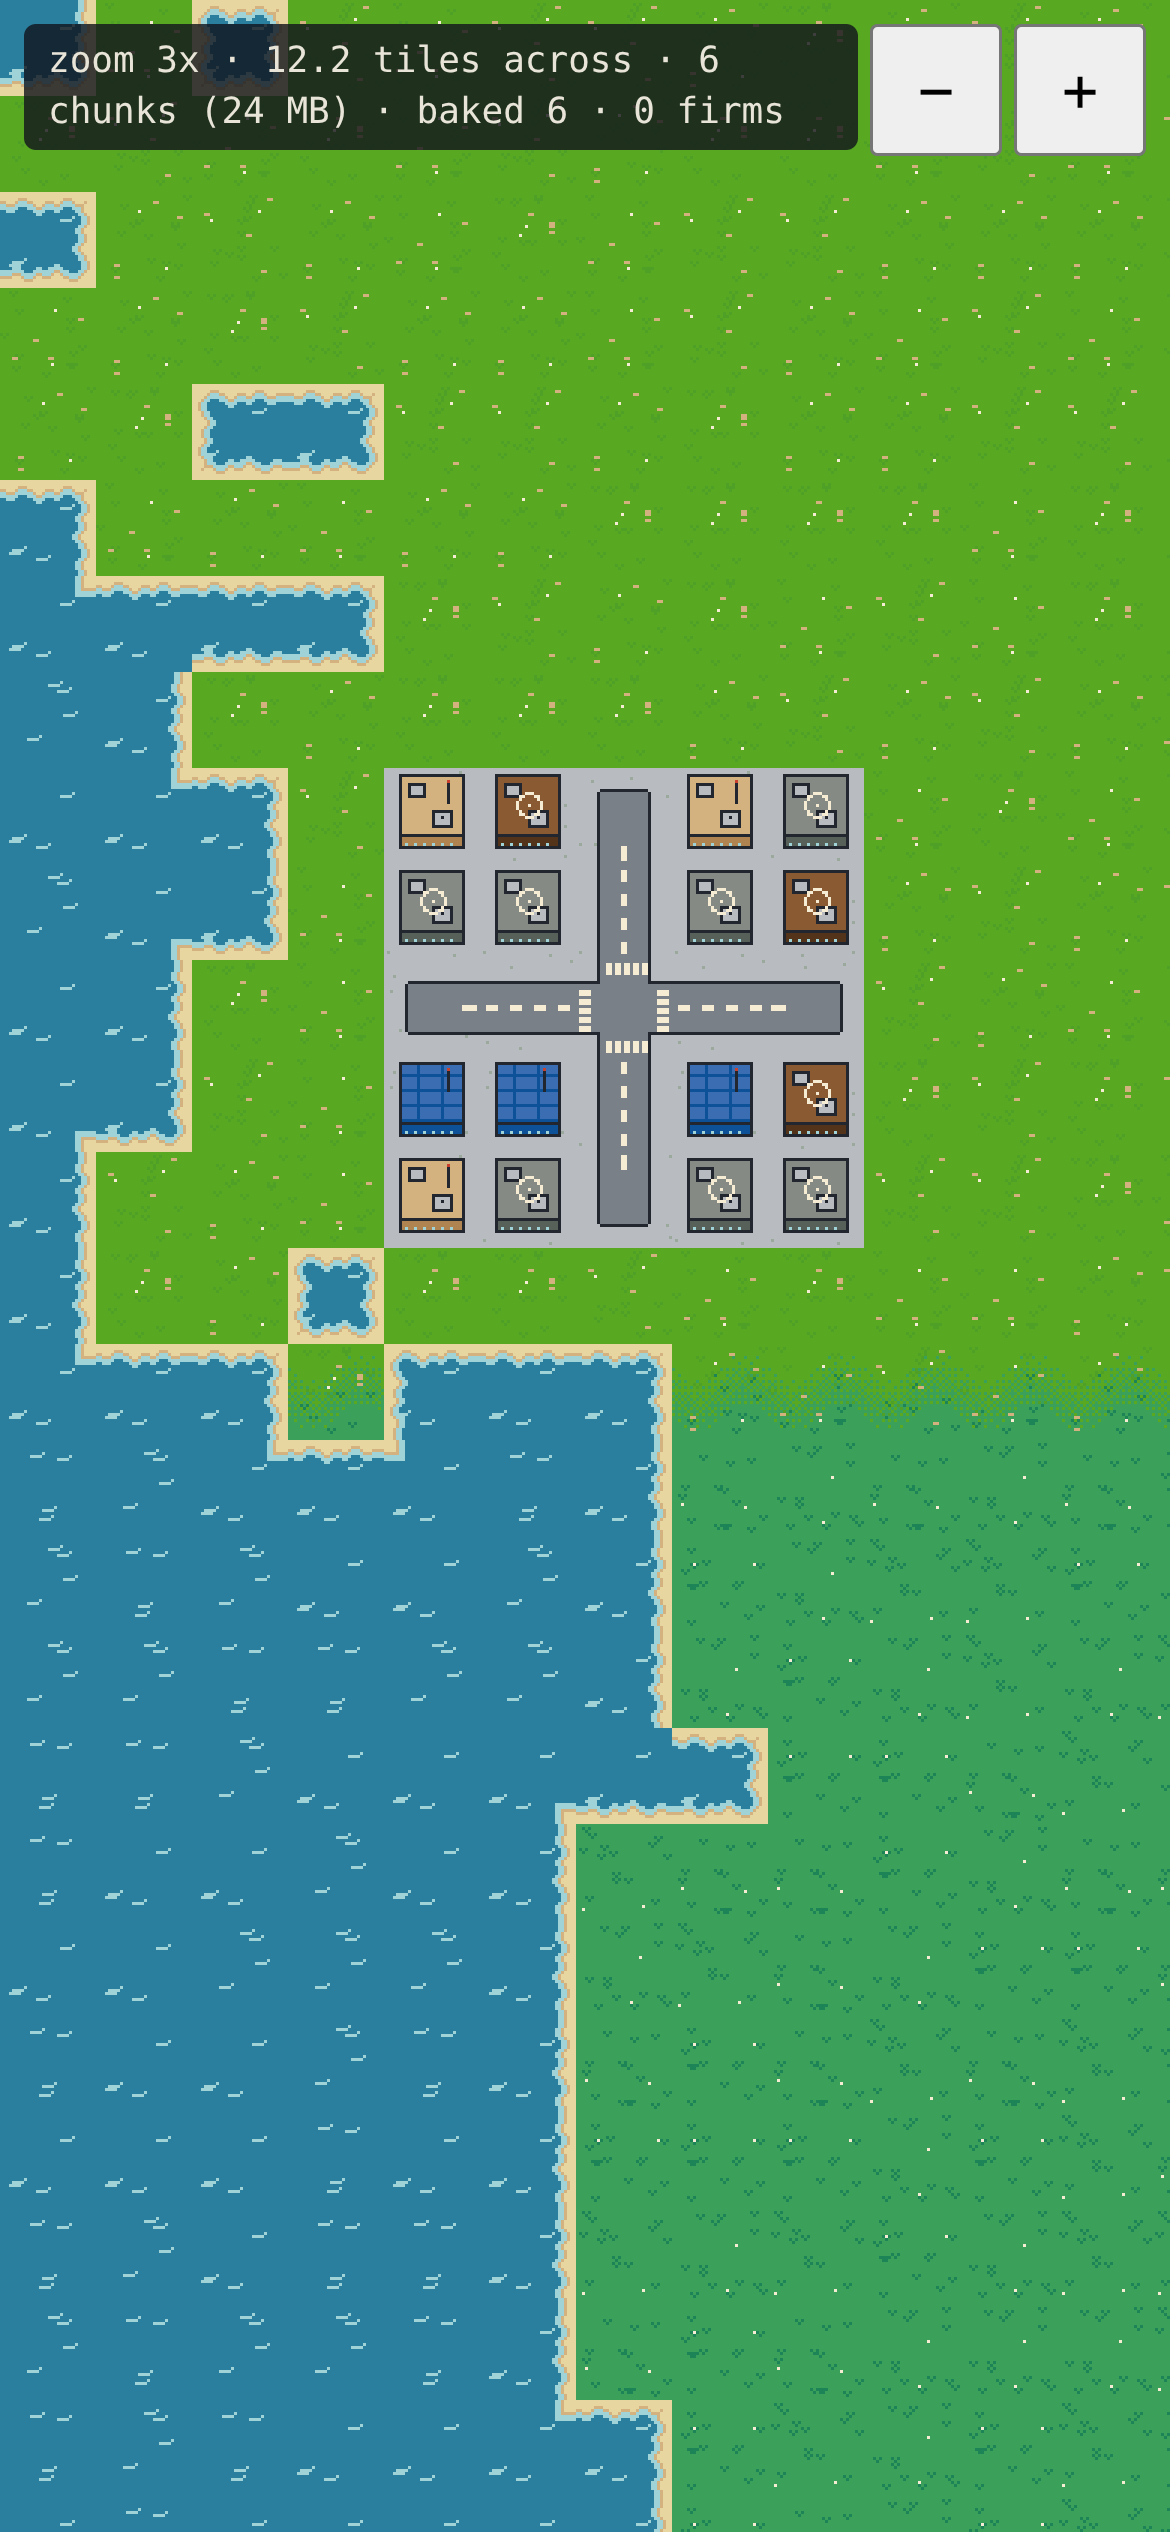
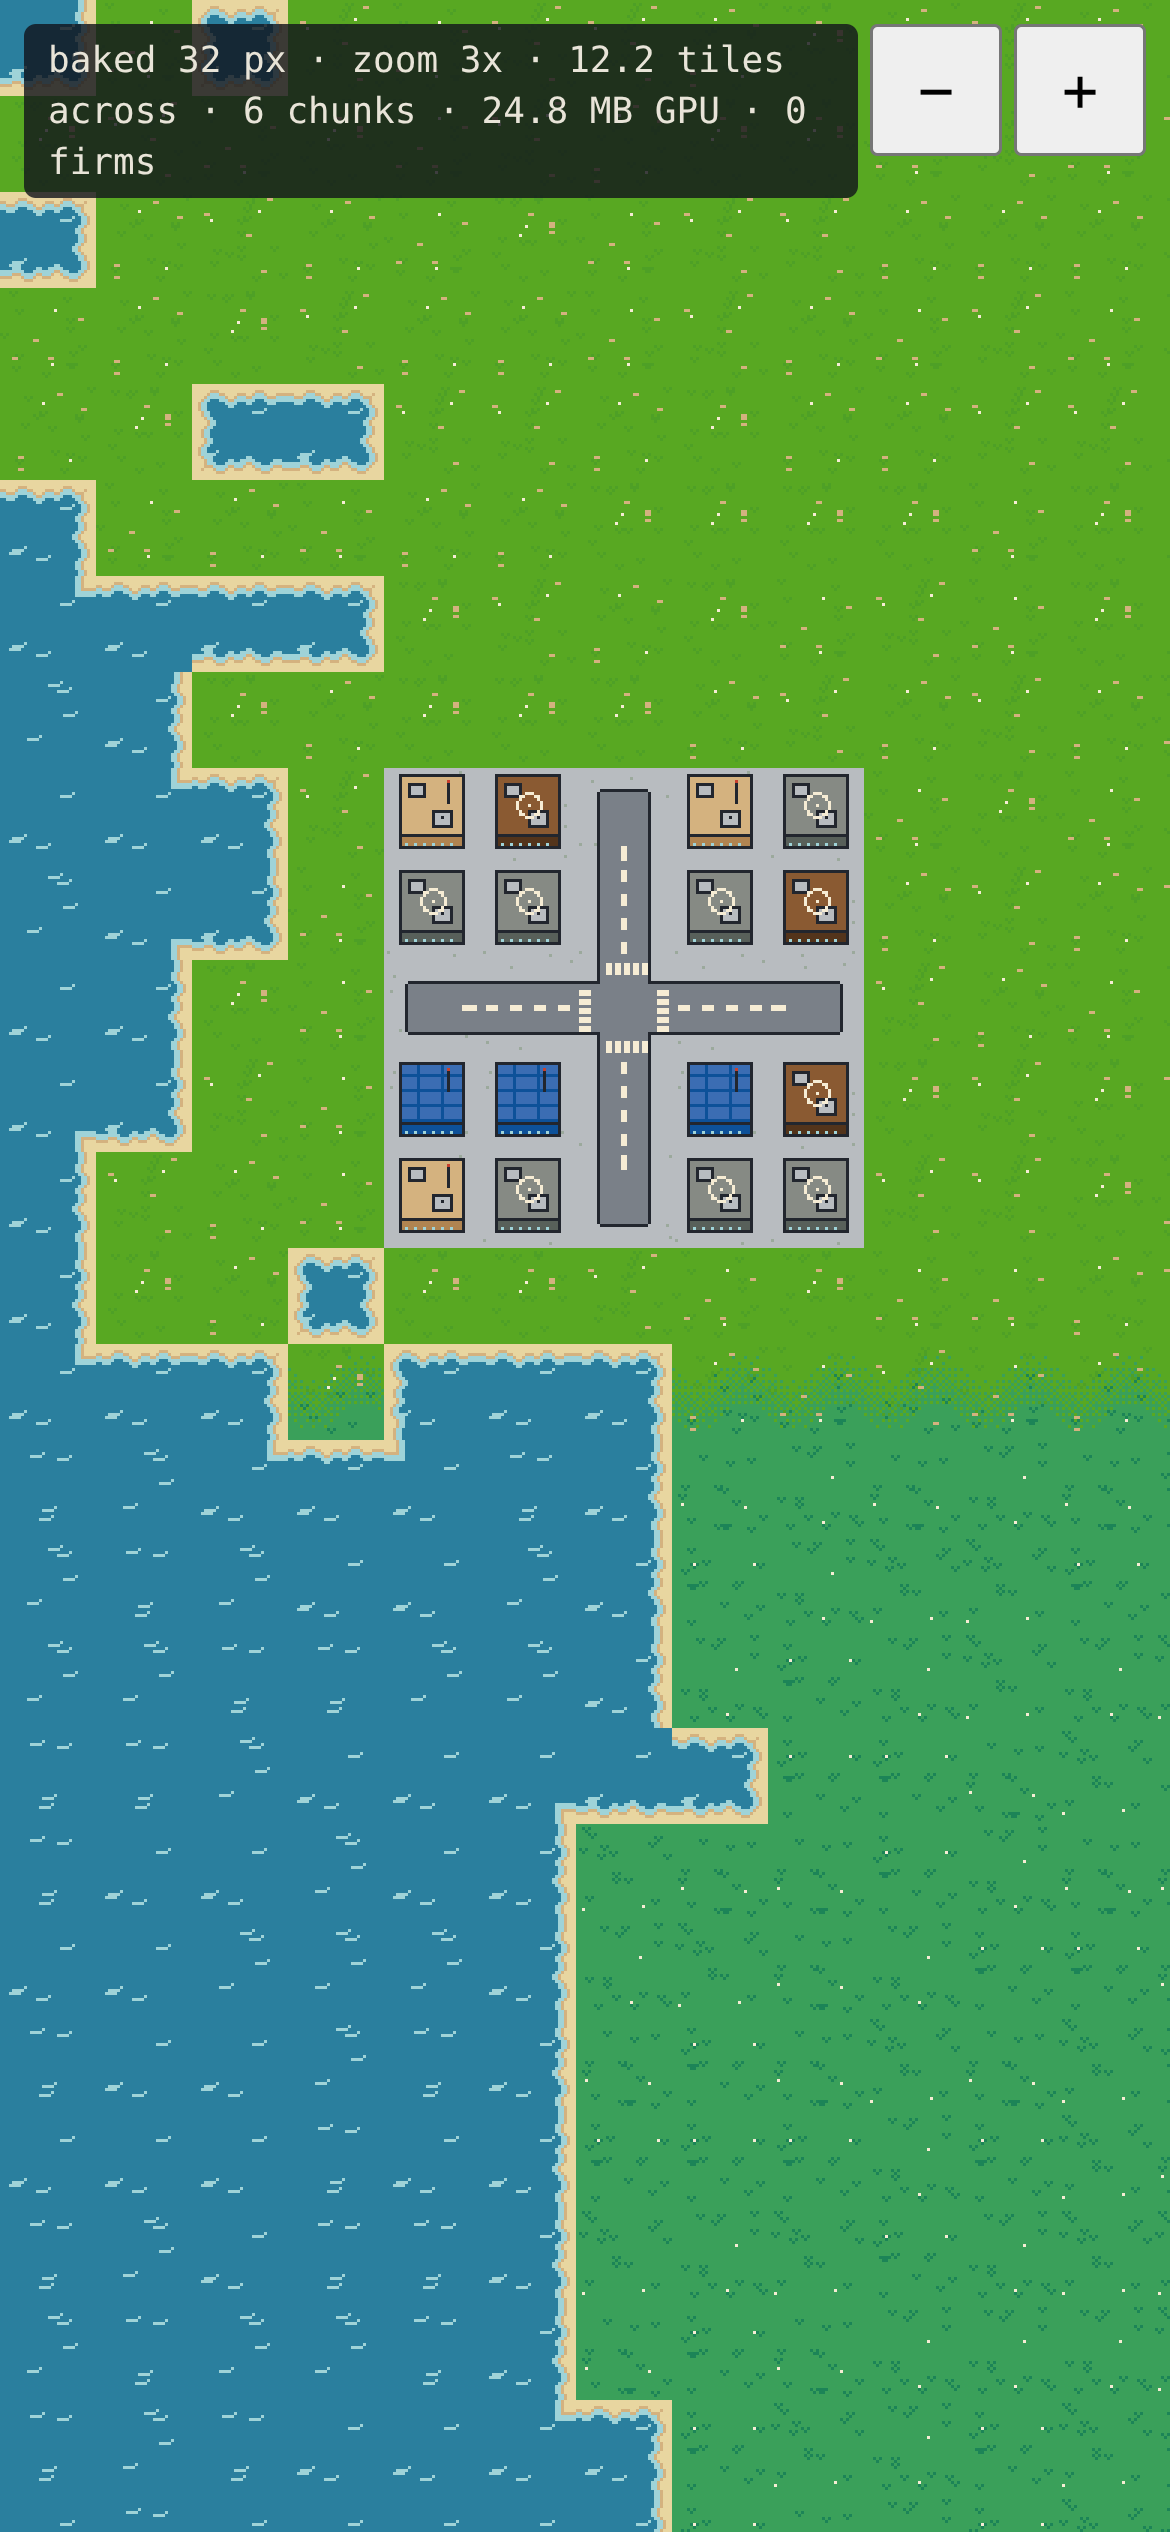
feat(client): direct-from-atlas terrain mode, 64 px atlas option, renderer bench (#59)

Changed region(s): [[0.0, 0.0, 0.7385, 0.0936]]

diff --git a/client/src/chunks.ts b/client/src/chunks.ts
@@ -1,79 +1,123 @@
 import { Container, Renderer, RenderTexture, Sprite, Texture } from "pixi.js";
-import {
-  CHUNK_BYTES,
-  CHUNK_PX,
-  CHUNK_TILES,
-  MARGIN_PX,
-  TILE_PX,
-  View,
-  chunkKey,
-  neededChunks,
-} from "./chunkmath";
+import { CHUNK_TILES, MARGIN_PX, TILE_PX, View, chunkBytes, chunkKey, neededChunks } from "./chunkmath";
 import { MapData } from "./mapdata";
 import { frameFor } from "./tiles";
 
+/** Terrain renderer options: baked chunk textures or tiles drawn straight from the atlas. */
+export interface TerrainOptions {
+  mode: "baked" | "direct";
+  chunkTiles: number;
+  /** Atlas texels per art pixel: 1 for the 32 px set, 2 for the 64 px set. */
+  artScale: number;
+  marginPx: number;
+}
+
+export const DEFAULT_TERRAIN: TerrainOptions = {
+  mode: "baked",
+  chunkTiles: CHUNK_TILES,
+  artScale: 1,
+  marginPx: MARGIN_PX,
+};
+
+interface Live {
+  node: Container;
+  tex?: RenderTexture;
+  sprites: number;
+}
+
 /**
- * Terrain chunk cache. Each chunk is 32 x 32 tiles baked once into a 1024 px
- * render texture. Only chunks within 8 tiles of the screen are kept; the rest are
- * destroyed so GPU memory stays bounded at any map size.
+ * Terrain chunk cache. Chunks within the margin of the screen are kept; the rest are
+ * destroyed so memory stays bounded at any map size.
+ *
+ * - baked: each chunk is painted once into a render texture (chunkTiles x 32 art px,
+ *   times artScale texels), then drawn as one sprite. GPU memory grows with chunk area.
+ * - direct: each chunk is a container of tile sprites drawn from the atlas every frame.
+ *   GPU memory is the atlas only; Pixi batches the sprites because they share one texture.
  */
 export class ChunkCache {
   readonly layer = new Container();
-  private readonly live = new Map<string, { sprite: Sprite; tex: RenderTexture }>();
+  private readonly live = new Map<string, Live>();
   baked = 0;
 
   constructor(
     private readonly renderer: Renderer,
     private readonly map: MapData,
     private readonly frames: Record<string, Texture>,
-    private readonly marginPx = MARGIN_PX,
+    readonly opts: TerrainOptions = DEFAULT_TERRAIN,
   ) {}
 
   get count(): number {
     return this.live.size;
   }
 
+  /** GPU bytes held by baked chunk textures (0 in direct mode). */
   get bytes(): number {
-    return this.live.size * CHUNK_BYTES;
+    return this.opts.mode === "baked" ? this.live.size * chunkBytes(this.opts.chunkTiles, this.opts.artScale) : 0;
+  }
+
+  get sprites(): number {
+    let n = 0;
+    for (const c of this.live.values()) n += c.sprites;
+    return n;
   }
 
   update(v: View): void {
     const want = new Set<string>();
-    for (const [cx, cy] of neededChunks(v, this.map.width, this.map.height, this.marginPx)) {
+    const { chunkTiles, marginPx } = this.opts;
+    for (const [cx, cy] of neededChunks(v, this.map.width, this.map.height, marginPx, chunkTiles)) {
       const key = chunkKey(cx, cy);
       want.add(key);
-      if (!this.live.has(key)) this.live.set(key, this.bake(cx, cy));
+      if (!this.live.has(key)) this.live.set(key, this.build(cx, cy));
     }
     for (const [key, c] of this.live) {
       if (want.has(key)) continue;
-      c.sprite.destroy();
-      c.tex.destroy(true);
+      c.node.destroy({ children: true });
+      c.tex?.destroy(true);
       this.live.delete(key);
     }
   }
 
-  private bake(cx: number, cy: number) {
+  private tiles(cx: number, cy: number): Container {
+    const n = this.opts.chunkTiles;
     const tiles = new Container();
-    const tx0 = cx * CHUNK_TILES;
-    const ty0 = cy * CHUNK_TILES;
-    for (let ty = 0; ty < CHUNK_TILES; ty++) {
+    const tx0 = cx * n;
+    const ty0 = cy * n;
+    for (let ty = 0; ty < n; ty++) {
       const y = ty0 + ty;
       if (y >= this.map.height) break;
-      for (let tx = 0; tx < CHUNK_TILES; tx++) {
+      for (let tx = 0; tx < n; tx++) {
         const x = tx0 + tx;
         if (x >= this.map.width) break;
         const s = new Sprite(this.frames[frameFor(this.map, x, y)] ?? Texture.EMPTY);
         s.position.set(tx * TILE_PX, ty * TILE_PX);
+        s.width = TILE_PX;
+        s.height = TILE_PX;
         tiles.addChild(s);
       }
     }
-    const tex = RenderTexture.create({ width: CHUNK_PX, height: CHUNK_PX, scaleMode: "nearest" });
+    return tiles;
+  }
+
+  private build(cx: number, cy: number): Live {
+    const px = this.opts.chunkTiles * TILE_PX;
+    const tiles = this.tiles(cx, cy);
+    if (this.opts.mode === "direct") {
+      tiles.position.set(cx * px, cy * px);
+      this.layer.addChild(tiles);
+      return { node: tiles, sprites: tiles.children.length };
+    }
+    const tex = RenderTexture.create({
+      width: px,
+      height: px,
+      resolution: this.opts.artScale,
+      scaleMode: "nearest",
+    });
     this.renderer.render({ container: tiles, target: tex, clear: true });
     tiles.destroy({ children: true });
     const sprite = new Sprite(tex);
-    sprite.position.set(cx * CHUNK_PX, cy * CHUNK_PX);
+    sprite.position.set(cx * px, cy * px);
     this.layer.addChild(sprite);
     this.baked++;
-    return { sprite, tex };
+    return { node: sprite, tex, sprites: 1 };
   }
 }

diff --git a/client/src/main.ts b/client/src/main.ts
@@ -1,9 +1,11 @@
 import { Application, Assets, Container, Rectangle, Texture } from "pixi.js";
 import atlasUrl from "../../art/atlas/terrain_atlas.png?url";
 import atlasJson from "../../art/atlas/terrain_atlas.json";
-import { ChunkCache } from "./chunks";
+import atlas64Url from "../../art/atlas/terrain_atlas_64.png?url";
+import atlas64Json from "../../art/atlas/terrain_atlas_64.json";
+import { ChunkCache, TerrainOptions } from "./chunks";
 import { FirmLayer } from "./firms";
-import { TILE_PX, View, clampView, stepZoom } from "./chunkmath";
+import { CHUNK_TILES, TILE_PX, View, clampView, stepZoom } from "./chunkmath";
 import { parseMap } from "./mapdata";
 
 interface AtlasJson {
@@ -25,16 +27,30 @@ async function boot() {
   });
   document.getElementById("map")!.appendChild(app.canvas);
 
-  const base: Texture = await Assets.load({ src: atlasUrl, data: { scaleMode: "nearest" } });
-  base.source.scaleMode = "nearest";
-  const atlas = atlasJson as AtlasJson;
+  // ?art=64 draws terrain from the 64 px set (frames it lacks fall back to the 32 px set).
+  const art = params.get("art") === "64" ? 64 : 32;
+  const terrain: TerrainOptions = {
+    mode: params.get("mode") === "direct" ? "direct" : "baked",
+    chunkTiles: Number(params.get("chunk") ?? CHUNK_TILES),
+    artScale: art / TILE_PX,
+    marginPx: Number(params.get("margin") ?? 8) * TILE_PX,
+  };
+  let atlasBytes = 0;
+  const loadAtlas = async (url: string, json: AtlasJson, into: Record<string, Texture>) => {
+    const base: Texture = await Assets.load({ src: url, data: { scaleMode: "nearest" } });
+    base.source.scaleMode = "nearest";
+    atlasBytes += base.source.pixelWidth * base.source.pixelHeight * 4;
+    for (const [name, f] of Object.entries(json.frames)) {
+      into[name] = new Texture({ source: base.source, frame: new Rectangle(f.x, f.y, f.w, f.h) });
+    }
+  };
   const frames: Record<string, Texture> = {};
-  for (const [name, f] of Object.entries(atlas.frames)) {
-    frames[name] = new Texture({ source: base.source, frame: new Rectangle(f.x, f.y, f.w, f.h) });
-  }
+  await loadAtlas(atlasUrl, atlasJson as AtlasJson, frames);
+  const terrainFrames: Record<string, Texture> = { ...frames };
+  if (art === 64) await loadAtlas(atlas64Url, atlas64Json as AtlasJson, terrainFrames);
 
   const map = parseMap(await (await fetch("./sample-map.bin")).arrayBuffer());
-  const chunks = new ChunkCache(app.renderer, map, frames, Number(params.get("margin") ?? 8) * TILE_PX);
+  const chunks = new ChunkCache(app.renderer, map, terrainFrames, terrain);
   const firms = new FirmLayer(map.firms, frames);
   const world = new Container();
   world.addChild(chunks.layer, firms.layer);
@@ -60,11 +76,15 @@ async function boot() {
       zoom: view.zoom,
       tilesAcross: +(view.w / view.zoom / TILE_PX).toFixed(1),
       chunks: chunks.count,
-      mb: +(chunks.bytes / 2 ** 20).toFixed(0),
+      mode: terrain.mode,
+      art,
+      chunkTiles: terrain.chunkTiles,
+      mb: +((chunks.bytes + atlasBytes) / 2 ** 20).toFixed(1),
+      sprites: chunks.sprites,
       baked: chunks.baked,
       firms: firms.visibleCount,
     };
-    hud.textContent = `zoom ${stats.zoom}x · ${stats.tilesAcross} tiles across · ${stats.chunks} chunks (${stats.mb} MB) · baked ${stats.baked} · ${stats.firms} firms`;
+    hud.textContent = `${stats.mode} ${art} px · zoom ${stats.zoom}x · ${stats.tilesAcross} tiles across · ${stats.chunks} chunks · ${stats.mb} MB GPU · ${stats.firms} firms`;
     (window as unknown as { __cppStats: typeof stats }).__cppStats = stats;
   };
 
@@ -116,6 +136,36 @@ async function boot() {
   document.getElementById("zoom-out")!.onclick = () => ((view = stepZoom(view, -1)), apply());
   window.addEventListener("resize", apply);
   apply();
+
+  // Benchmark hook for scripts/bench.mjs: pan `frames` frames by `step` art px and time
+  // each update + render, including GPU work (a 1-pixel readback waits for it).
+  (window as unknown as { __bench: unknown }).__bench = (frames: number, step: number) => {
+    app.ticker.stop();
+    const gl = (app.renderer as unknown as { gl?: WebGLRenderingContext }).gl;
+    const px = new Uint8Array(4);
+    const times: number[] = [];
+    let dir = 1;
+    for (let i = 0; i < frames; i++) {
+      const t0 = performance.now();
+      const before = view.x;
+      view = { ...view, x: view.x + dir * step };
+      apply();
+      if (view.x === before) dir = -dir;
+      app.renderer.render(app.stage);
+      gl?.readPixels(0, 0, 1, 1, gl.RGBA, gl.UNSIGNED_BYTE, px); // waits for the GPU
+      times.push(performance.now() - t0);
+    }
+    times.sort((a, b) => a - b);
+    const mem = (performance as unknown as { memory?: { usedJSHeapSize: number } }).memory;
+    return {
+      avgMs: +(times.reduce((a, b) => a + b, 0) / frames).toFixed(2),
+      medianMs: +times[Math.floor(frames / 2)].toFixed(2),
+      gl: Boolean(gl),
+      p95Ms: +times[Math.floor(frames * 0.95)].toFixed(2),
+      maxMs: +times[frames - 1].toFixed(2),
+      jsHeapMb: mem ? +(mem.usedJSHeapSize / 2 ** 20).toFixed(1) : null,
+    };
+  };
   document.title = "Capitalism++ map ready";
 }
 

diff --git a/client/src/chunkmath.ts b/client/src/chunkmath.ts
@@ -19,9 +19,13 @@ export interface View {
 
 export const chunkKey = (cx: number, cy: number) => `${cx},${cy}`;
 
-export function chunkGrid(mapW: number, mapH: number) {
-  return { cols: Math.ceil(mapW / CHUNK_TILES), rows: Math.ceil(mapH / CHUNK_TILES) };
+export function chunkGrid(mapW: number, mapH: number, chunkTiles = CHUNK_TILES) {
+  return { cols: Math.ceil(mapW / chunkTiles), rows: Math.ceil(mapH / chunkTiles) };
 }
+
+/** GPU bytes of one baked chunk: RGBA8 at `artScale` texels per art pixel. */
+export const chunkBytes = (chunkTiles: number, artScale: number) =>
+  (chunkTiles * TILE_PX * artScale) ** 2 * 4;
 
 /** Default keep-alive margin around the screen, in art pixels (8 tiles). */
 export const MARGIN_PX = 8 * TILE_PX;
@@ -35,9 +39,11 @@ export function neededChunks(
   mapW: number,
   mapH: number,
   marginPx = MARGIN_PX,
+  chunkTiles = CHUNK_TILES,
 ): [number, number][] {
   if (!Number.isInteger(v.zoom) || v.zoom < 1) throw new Error("zoom must be a whole number >= 1");
-  const { cols, rows } = chunkGrid(mapW, mapH);
+  const { cols, rows } = chunkGrid(mapW, mapH, chunkTiles);
+  const CHUNK_PX = chunkTiles * TILE_PX;
   const wx = v.w / v.zoom;
   const wy = v.h / v.zoom;
   const x0 = Math.max(0, Math.floor((v.x - marginPx) / CHUNK_PX));

diff --git a/client/tests/chunkmath.test.ts b/client/tests/chunkmath.test.ts
@@ -1,5 +1,5 @@
 import { describe, expect, it } from "vitest";
-import { CHUNK_PX, TILE_PX, clampView, neededChunks, stepZoom } from "../src/chunkmath";
+import { CHUNK_PX, TILE_PX, chunkBytes, clampView, neededChunks, stepZoom } from "../src/chunkmath";
 
 const MAP_W = 240;
 const MAP_H = 198;
@@ -60,5 +60,19 @@ describe("zoom and camera", () => {
     expect(c.x).toBe(0);
     expect(c.y).toBeCloseTo(MAP_H * TILE_PX - 2532 / 3);
     expect(Number.isInteger(c.y * 3)).toBe(true);
+  });
+});
+
+describe("chunk size options", () => {
+  it("baked chunk memory grows with art scale squared", () => {
+    expect(chunkBytes(32, 1)).toBe(4 * 2 ** 20);
+    expect(chunkBytes(32, 2)).toBe(16 * 2 ** 20);
+    expect(chunkBytes(16, 2)).toBe(4 * 2 ** 20);
+  });
+
+  it("16-tile chunks cover the same view with finer pieces", () => {
+    const v = { x: 0, y: 0, w: 1024, h: 1024, zoom: 1 };
+    expect(neededChunks(v, 240, 198, 0, 32)).toHaveLength(1);
+    expect(neededChunks(v, 240, 198, 0, 16)).toHaveLength(4);
   });
 });

diff --git a/client/README.md b/client/README.md
@@ -23,3 +23,10 @@ npm run --prefix client screenshot   # after build: docs/art/m2-map-desktop.png,
 - **Sample map.** `public/sample-map.bin` comes from `python scripts/export_sample_map.py` (seed 1,
   240 x 198): `CPPM`, u16 width, u16 height, then kind and climate bytes per tile.
 - URL parameters: `x`, `y` (top-left tile), `zoom` (1-3), `margin` (tiles kept around the screen).
+
+## Terrain renderer options
+
+URL parameters pick the terrain renderer, for comparison: `mode=baked|direct`, `art=32|64`,
+`chunk=<tiles per chunk side>`. Default is `mode=baked&art=32&chunk=32`. `npm run bench` (after
+`npm run build`) prints memory and frame time for each variant at phone and desktop sizes.
+Chrome there renders WebGL on the CPU (SwiftShader), so frame times are only relative.
